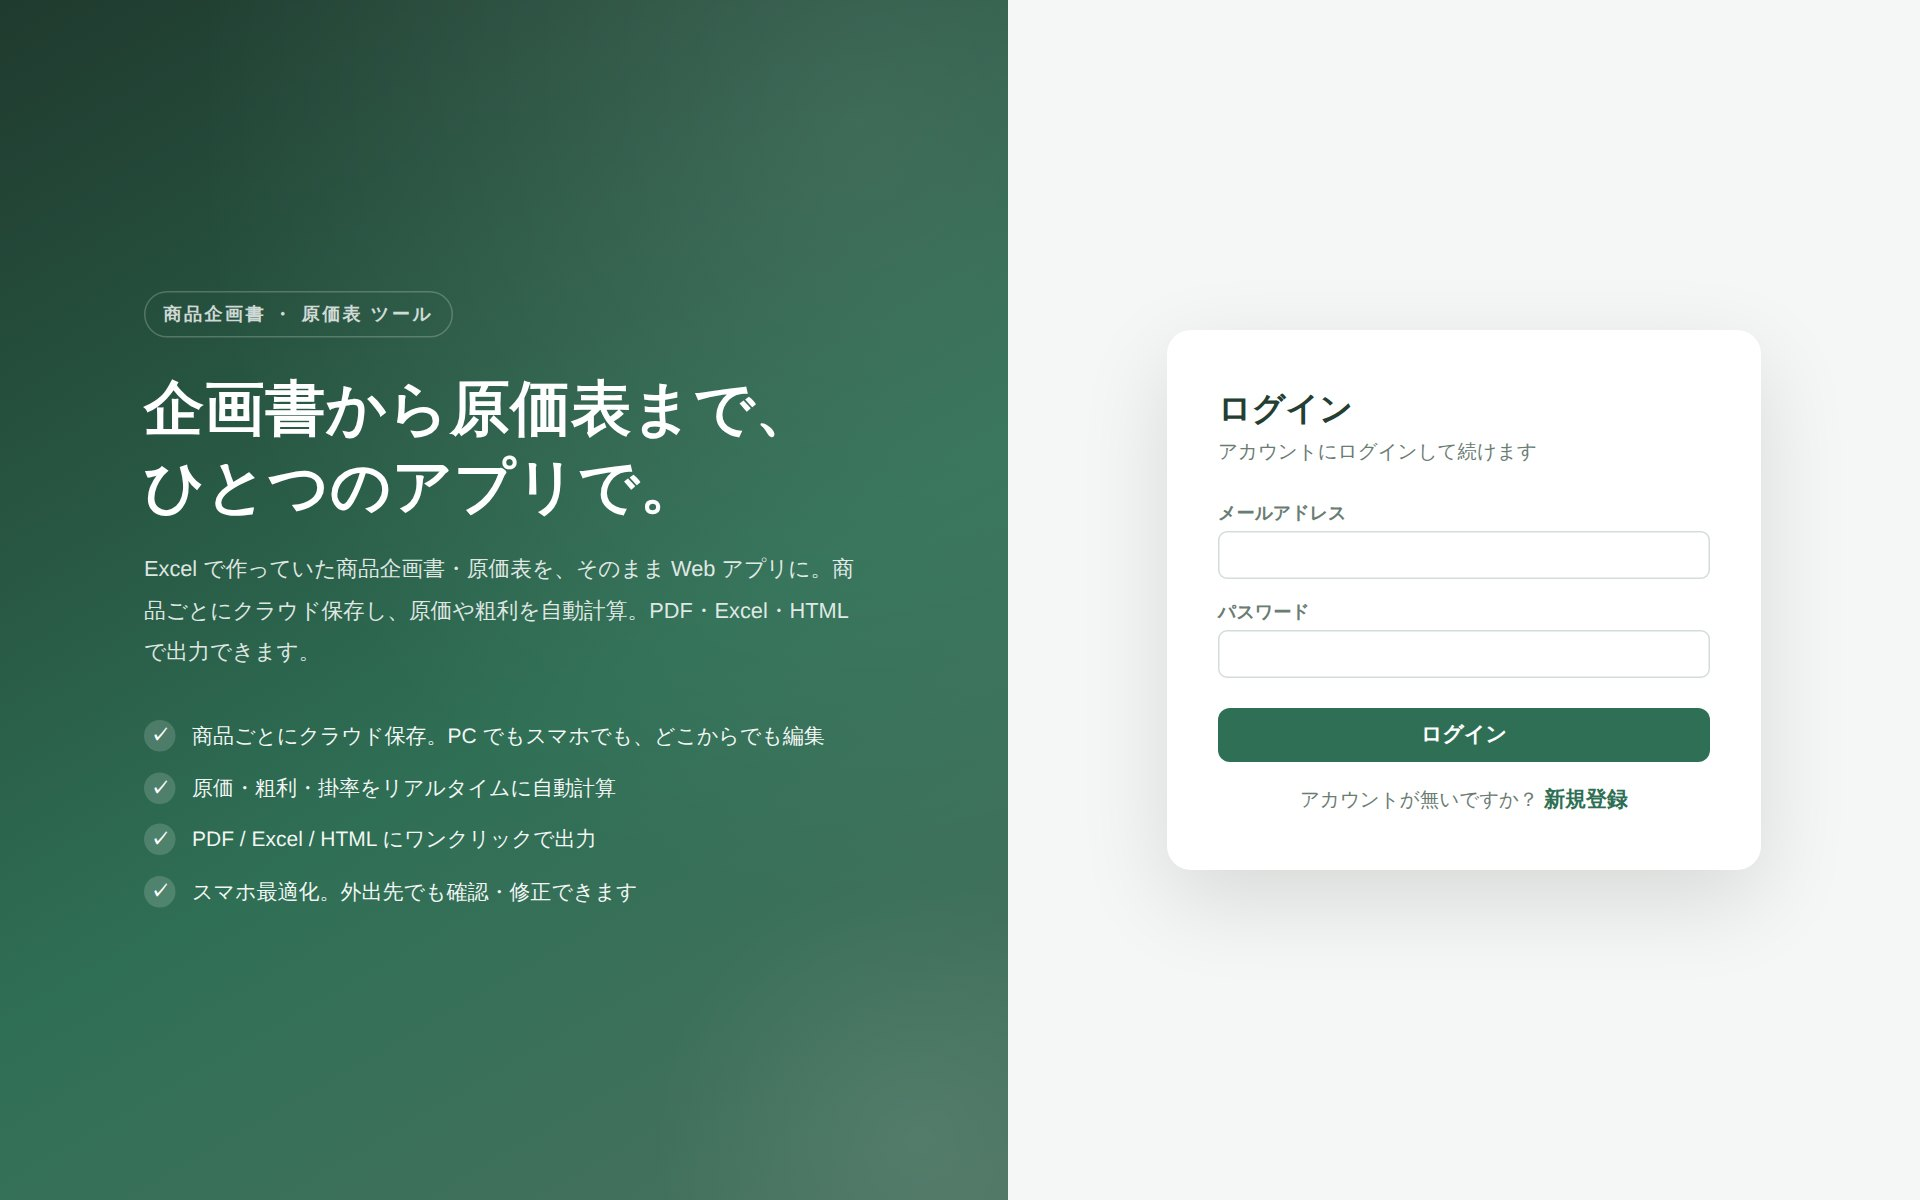
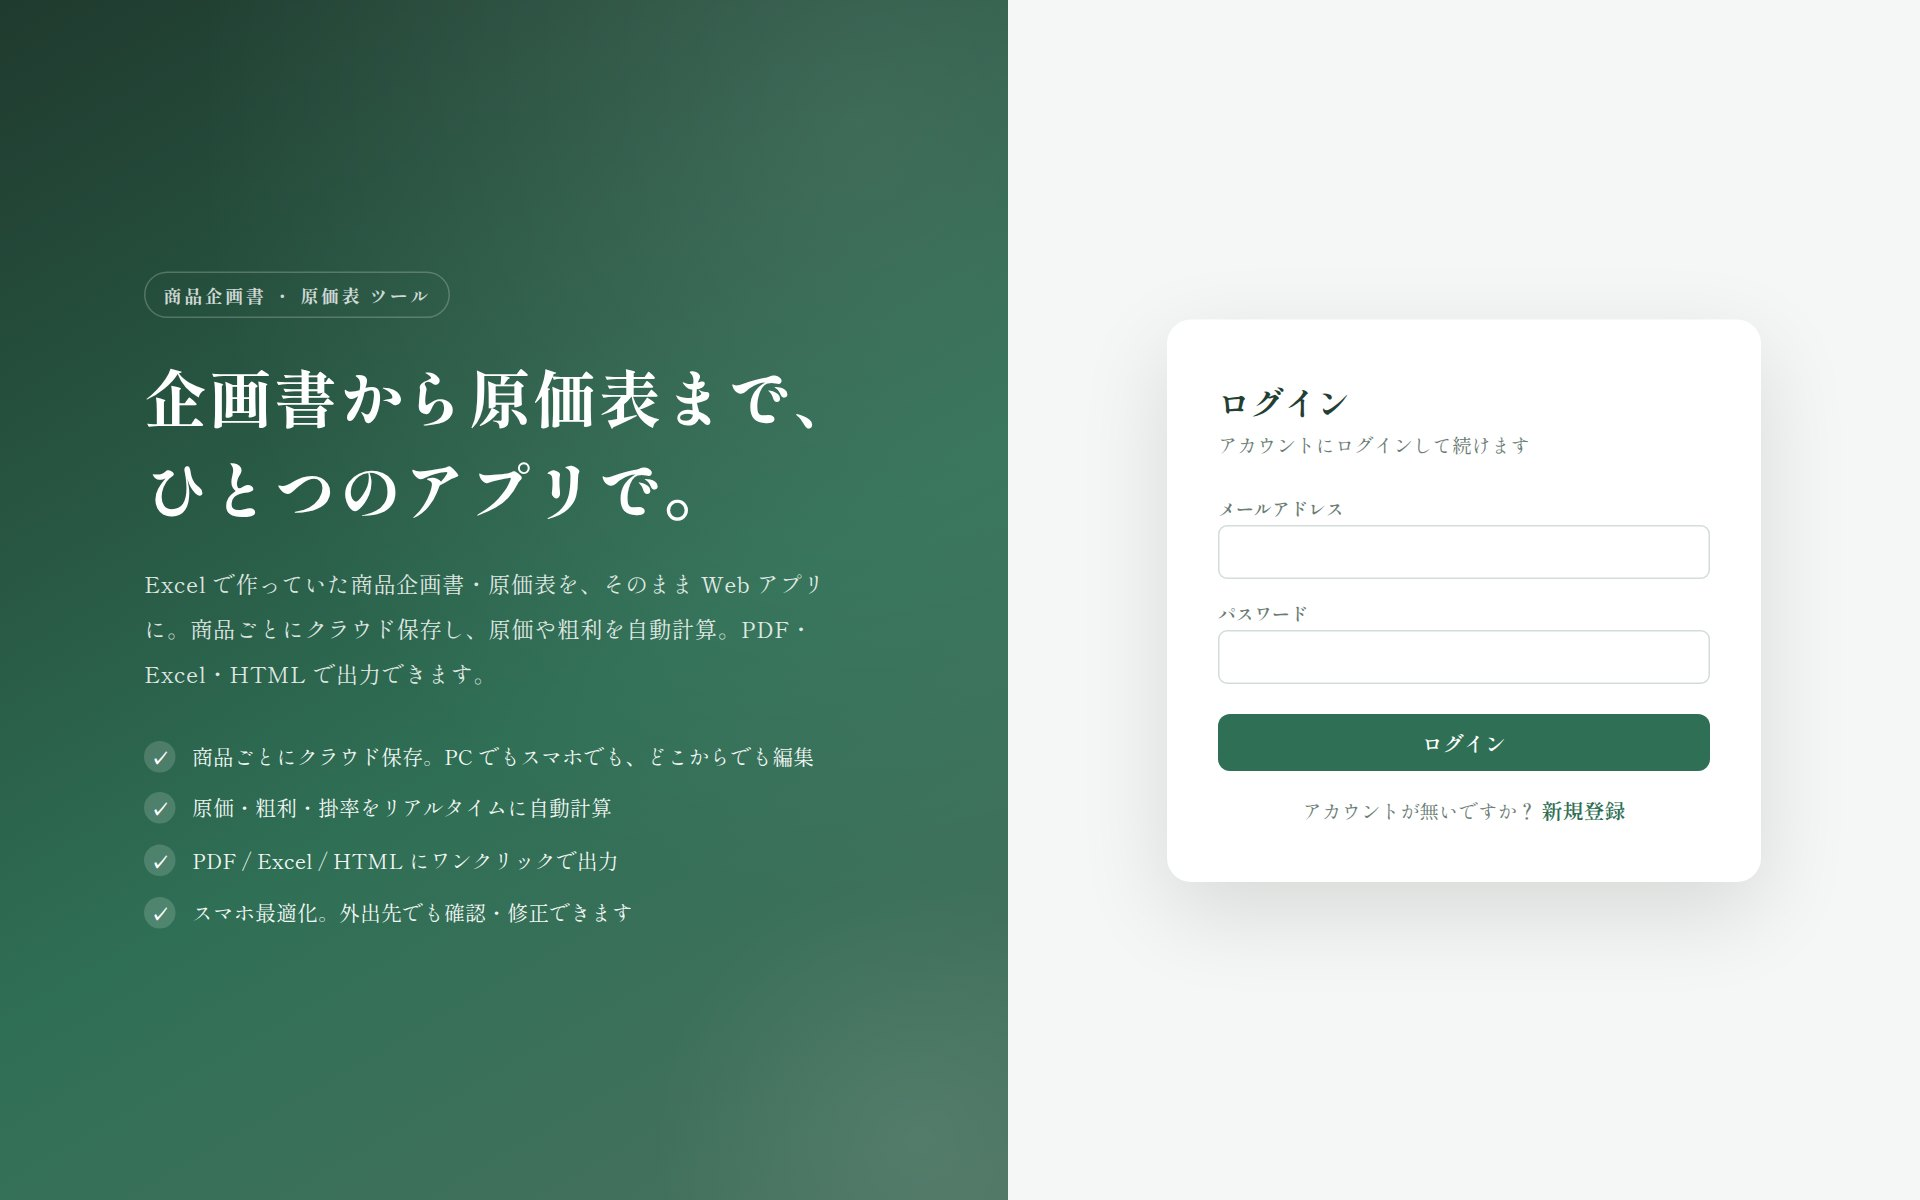
style(login): ログイン画面を Shippori Mincho（明朝）に / ポータルのフォントは元に戻す
Claude-Session: https://claude.ai/code/session_0188LqF7BTDXaPF6uUEMt61Q

diff --git a/portal/index.html b/portal/index.html
@@ -8,7 +8,7 @@
   <meta name="description" content="つくったものを、ひとつの場所に。" />
   <link rel="preconnect" href="https://fonts.googleapis.com" />
   <link rel="preconnect" href="https://fonts.gstatic.com" crossorigin />
-  <link href="https://fonts.googleapis.com/css2?family=Shippori+Mincho:wght@400;500;600;700;800&display=swap" rel="stylesheet" />
+  <link href="https://fonts.googleapis.com/css2?family=Inter:wght@400;500;600;700&family=Noto+Sans+JP:wght@400;500;700&display=swap" rel="stylesheet" />
   <style>
     :root {
       --bg: #ffffff;
@@ -23,8 +23,8 @@
     * { box-sizing: border-box; margin: 0; padding: 0; }
     html { -webkit-text-size-adjust: 100%; scroll-behavior: smooth; }
     body {
-      font-family: "Shippori Mincho", "Noto Serif JP", "Hiragino Mincho ProN",
-        "YuMincho", "Yu Mincho", "MS PMincho", serif;
+      font-family: "Inter", "Noto Sans JP", -apple-system, BlinkMacSystemFont,
+        "Hiragino Kaku Gothic ProN", "Hiragino Sans", Meiryo, sans-serif;
       color: var(--ink);
       background: var(--bg);
       -webkit-font-smoothing: antialiased;
@@ -44,7 +44,7 @@
       border-bottom: 1px solid var(--line);
     }
     .nav .mark {
-      font-size: 19px; font-weight: 700; letter-spacing: 0.06em;
+      font-size: 18px; font-weight: 600; letter-spacing: 0.04em;
       color: var(--ink); text-decoration: none;
     }
 
@@ -60,12 +60,12 @@
     }
     .hero h1 {
       font-size: clamp(46px, 9.5vw, 92px);
-      font-weight: 800; letter-spacing: 0.01em; line-height: 1.06;
+      font-weight: 700; letter-spacing: -0.04em; line-height: 1.02;
     }
     .hero p {
-      margin-top: clamp(14px, 2.4vw, 24px);
+      margin-top: clamp(12px, 2.2vw, 20px);
       font-size: clamp(18px, 3vw, 25px);
-      font-weight: 500; color: var(--sub); letter-spacing: 0.06em; line-height: 1.7;
+      font-weight: 500; color: var(--sub); letter-spacing: 0.005em;
     }
 
     /* ---------- grid ---------- */
@@ -116,12 +116,12 @@
     .body { padding: clamp(16px, 2.2vw, 22px) clamp(10px, 1.4vw, 14px) clamp(6px, 1vw, 10px); }
     .tile h2 {
       font-size: clamp(20px, 2.6vw, 25px);
-      font-weight: 700; letter-spacing: 0.02em; line-height: 1.35;
+      font-weight: 600; letter-spacing: -0.015em; line-height: 1.25;
     }
     .tile .sub {
-      margin-top: 10px;
+      margin-top: 8px;
       font-size: clamp(14px, 1.85vw, 15.5px);
-      line-height: 1.85; color: var(--sub); max-width: 42ch; letter-spacing: 0.02em;
+      line-height: 1.65; color: var(--sub); max-width: 42ch;
     }
     .meta {
       margin-top: clamp(18px, 2.4vw, 24px);

diff --git a/src/index.css b/src/index.css
@@ -75,7 +75,14 @@ label { font-size: 12px; color: var(--muted); font-weight: 600; display: block; 
 .container { max-width: 1180px; margin: 0 auto; padding: 24px 20px 80px; }
 
 /* ===== Login ===== */
-.login-page { min-height: 100vh; min-height: 100dvh; display: grid; grid-template-columns: 1.05fr 0.95fr; }
+/* ログイン画面のみ明朝（Shippori Mincho）。アプリ内部はゴシックのまま。 */
+.login-page {
+  min-height: 100vh; min-height: 100dvh;
+  display: grid; grid-template-columns: 1.05fr 0.95fr;
+  font-family: "Shippori Mincho", "Noto Serif JP", "Hiragino Mincho ProN",
+    "YuMincho", "Yu Mincho", "MS PMincho", serif;
+  font-feature-settings: "palt" 1;
+}
 
 /* 左：紹介パネル（ブランド + 説明 + 特長） */
 .login-hero {
@@ -103,13 +110,13 @@ label { font-size: 12px; color: var(--muted); font-weight: 600; display: block; 
   border: 1px solid rgba(255, 255, 255, 0.22); border-radius: 999px;
 }
 .login-hero h1 {
-  font-size: clamp(27px, 3.4vw, 40px);
-  font-weight: 800; line-height: 1.3; letter-spacing: 0.01em;
-  margin: 0 0 16px; color: #fff;
+  font-size: clamp(28px, 3.6vw, 42px);
+  font-weight: 800; line-height: 1.45; letter-spacing: 0.03em;
+  margin: 0 0 18px; color: #fff;
 }
 .login-lead {
-  font-size: 14.5px; line-height: 1.9;
-  color: rgba(255, 255, 255, 0.86); margin: 0 0 30px;
+  font-size: 15px; line-height: 2;
+  color: rgba(255, 255, 255, 0.86); margin: 0 0 30px; letter-spacing: 0.02em;
 }
 .login-feats { list-style: none; padding: 0; margin: 0; display: flex; flex-direction: column; gap: 13px; }
 .login-feats li {

diff --git a/index.html b/index.html
@@ -10,6 +10,9 @@
     <meta name="apple-mobile-web-app-status-bar-style" content="black-translucent" />
     <meta name="description" content="商品企画書・原価表 Web アプリ" />
     <title>商品企画書 / 原価表 ツール</title>
+    <link rel="preconnect" href="https://fonts.googleapis.com" />
+    <link rel="preconnect" href="https://fonts.gstatic.com" crossorigin />
+    <link href="https://fonts.googleapis.com/css2?family=Shippori+Mincho:wght@400;500;600;700;800&display=swap" rel="stylesheet" />
   </head>
   <body>
     <div id="root"></div>
